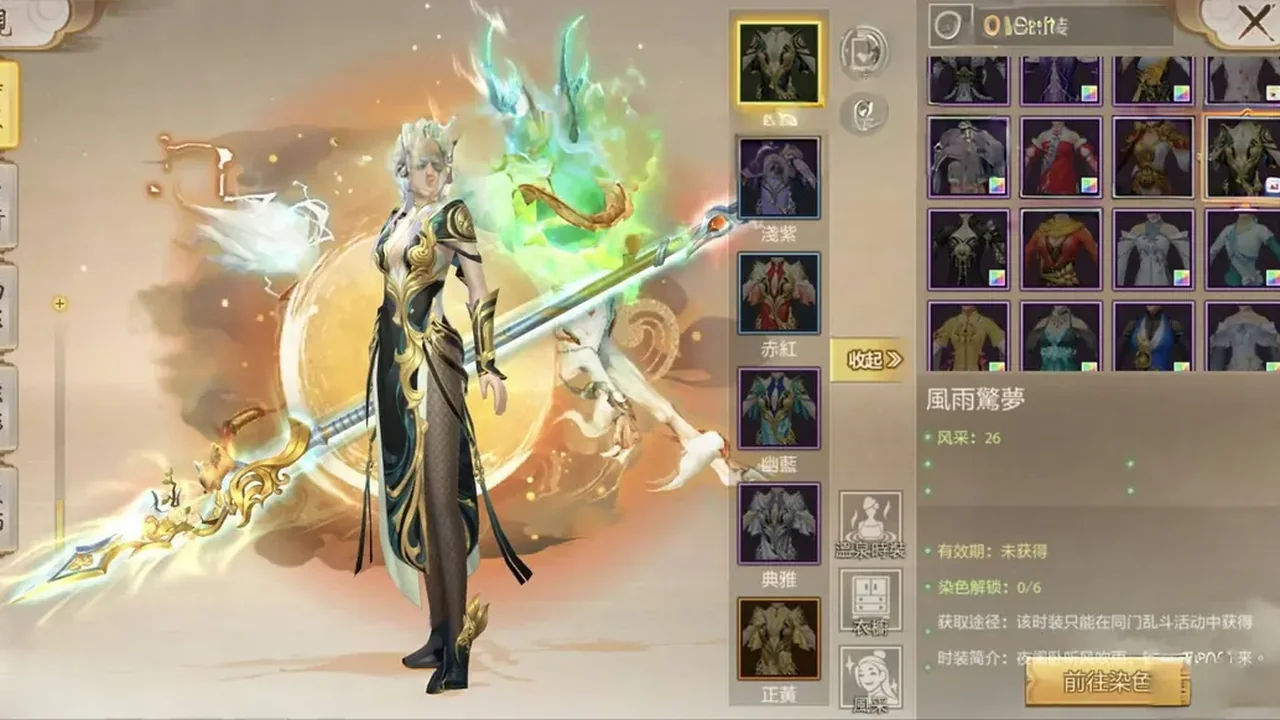
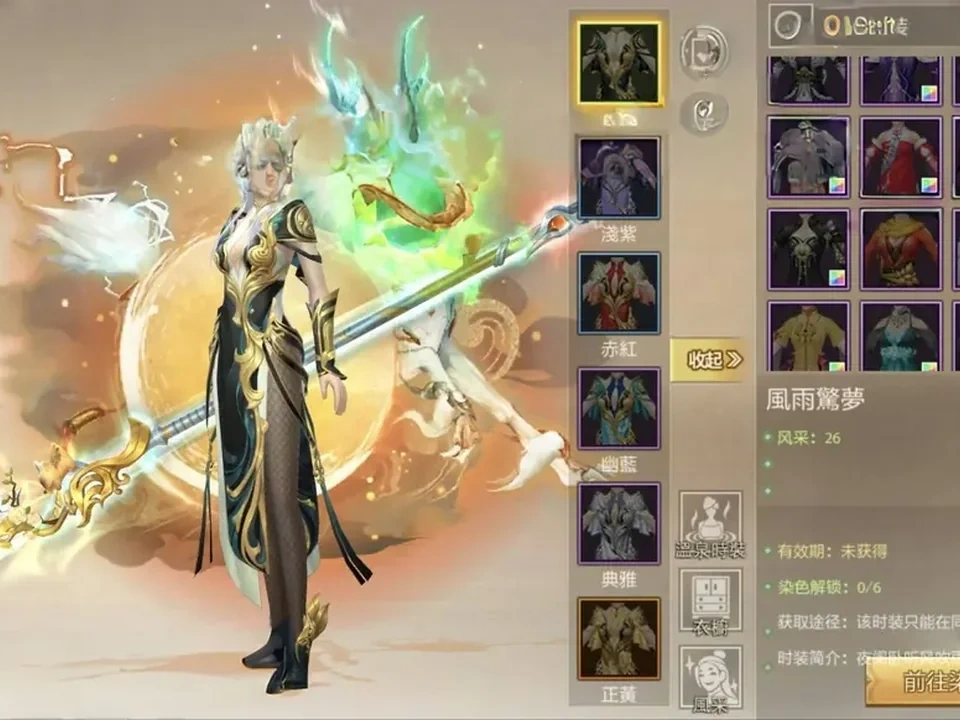
perf(轮播): 23 张图逐张裁成 4:3 原生尺寸，图片与轮播框比例一致
1) 按各自文案位置裁切 960x720（不拉伸、不缩放像素），每张单独定方案

2) 移除 9 处 object-position 内联补偿，浏览器不再二次裁切，满框无留白

3) 导出 WebP q95，单张 76-243KB

4) 版本升至 v20261026120000

diff --git a/index.html b/index.html
@@ -4,7 +4,7 @@
 <meta charset="UTF-8">
 <meta http-equiv="Content-Security-Policy" content="default-src 'self'; script-src 'self'; style-src 'self' 'unsafe-inline' https://miaoda.feishu.cn; img-src 'self' data: blob: https://*.byteimg.com; font-src https://miaoda.feishu.cn; connect-src 'self' https://tlbb.hfynxx.top; frame-ancestors 'none'; form-action 'self'; base-uri 'self';">
 <meta name="referrer" content="strict-origin-when-cross-origin">
-<script src="assets/frame-guard.js?v=v20261025250000"></script>
+<script src="assets/frame-guard.js?v=v20261026120000"></script>
 <meta name="viewport" content="width=device-width, initial-scale=1.0">
 <meta http-equiv="Cache-Control" content="no-cache, no-store, must-revalidate">
 <meta http-equiv="Pragma" content="no-cache">
@@ -55,23 +55,23 @@ header{display:flex;align-items:center;justify-content:space-between;padding:10p
     <div class="zc ct">
       <div class="zc-hd"><b>传奇手游专区</b><em>41 款 · 点图进入</em><a class="enter" href="cq.html">进入传奇 ›</a></div>
       <div class="carousel" data-swipe data-href="cq.html">
-        <div class="slide on"><img src="assets/home-carousel/c_kuangbao_xiyou.webp?v=v20261025250000" alt="狂暴西游"></div><div class="slide"><img data-src="assets/home-carousel/c_feijian_jianghu.webp?v=v20261025250000" alt="飞剑江湖" decoding="async"></div><div class="slide"><img data-src="assets/home-carousel/c_shensu_chuanqi.webp?v=v20261025250000" alt="神速传奇" decoding="async"></div><div class="slide"><img data-src="assets/home-carousel/c_bingxue_guilai.webp?v=v20261025250000" alt="冰雪归来" decoding="async"></div><div class="slide"><img data-src="assets/home-carousel/c_zhanguo_chuanqi.webp?v=v20261025250000" alt="战国传奇" decoding="async"></div><div class="slide"><img data-src="assets/home-carousel/c_liehuo_zhange.webp?v=v20261025250000" alt="烈火战歌" decoding="async"></div><div class="slide"><img data-src="assets/home-carousel/c_shacheng_fengyun.webp?v=v20261025250000" alt="沙城风云" decoding="async"></div>
+        <div class="slide on"><img src="assets/home-carousel/c_kuangbao_xiyou.webp?v=v20261026120000" alt="狂暴西游"></div><div class="slide"><img data-src="assets/home-carousel/c_feijian_jianghu.webp?v=v20261026120000" alt="飞剑江湖" decoding="async"></div><div class="slide"><img data-src="assets/home-carousel/c_shensu_chuanqi.webp?v=v20261026120000" alt="神速传奇" decoding="async"></div><div class="slide"><img data-src="assets/home-carousel/c_bingxue_guilai.webp?v=v20261026120000" alt="冰雪归来" decoding="async"></div><div class="slide"><img data-src="assets/home-carousel/c_zhanguo_chuanqi.webp?v=v20261026120000" alt="战国传奇" decoding="async"></div><div class="slide"><img data-src="assets/home-carousel/c_liehuo_zhange.webp?v=v20261026120000" alt="烈火战歌" decoding="async"></div><div class="slide"><img data-src="assets/home-carousel/c_shacheng_fengyun.webp?v=v20261026120000" alt="沙城风云" decoding="async"></div>
         <div class="dots"><button class="dot on" data-i="0" type="button" aria-label="第1张"></button><button class="dot" data-i="1" type="button" aria-label="第2张"></button><button class="dot" data-i="2" type="button" aria-label="第3张"></button><button class="dot" data-i="3" type="button" aria-label="第4张"></button><button class="dot" data-i="4" type="button" aria-label="第5张"></button><button class="dot" data-i="5" type="button" aria-label="第6张"></button><button class="dot" data-i="6" type="button" aria-label="第7张"></button></div>
       </div>
     </div>
     <div class="zc tl">
-      <div class="zc-hd"><b>天龙手游专区</b><em>17职业国际服 · 点图进入</em><a class="enter" href="tianlong.html?v=v20261025250000">进入天龙 ›</a></div>
-      <div class="carousel" data-swipe data-href="tianlong.html?v=v20261025250000">
-        <div class="slide on"><img style="object-position:20% 50%" src="assets/home-carousel/tl_official_logo_uni.webp?v=v20261025250000" alt="天龙八部手游"></div><div class="slide"><img data-src="assets/home-carousel/tl_taohuadao_uni.webp?v=v20261025250000" alt="天龙游戏实景" decoding="async"></div><div class="slide"><img data-src="assets/home-carousel/tl_tianmingxuanfeng_uni.webp?v=v20261025250000" alt="天龙珍兽天命玄凤" decoding="async"></div><div class="slide"><img data-src="assets/home-carousel/tl_beimingxuanwu_uni.webp?v=v20261025250000" alt="天龙珍兽北溟玄龟" decoding="async"></div><div class="slide"><img data-src="assets/home-carousel/tl_fengyujingmeng_uni.webp?v=v20261025250000" alt="天龙时装风雨惊梦" decoding="async"></div><div class="slide"><img data-src="assets/home-carousel/tl_tayanjinshi_uni.webp?v=v20261025250000" alt="天龙累计登录奖励" decoding="async"></div>        <div class="dots"><button class="dot on" data-i="0" type="button" aria-label="第1张"></button><button class="dot" data-i="1" type="button" aria-label="第2张"></button><button class="dot" data-i="2" type="button" aria-label="第3张"></button><button class="dot" data-i="3" type="button" aria-label="第4张"></button><button class="dot" data-i="4" type="button" aria-label="第5张"></button><button class="dot" data-i="5" type="button" aria-label="第6张"></button></div>
+      <div class="zc-hd"><b>天龙手游专区</b><em>17职业国际服 · 点图进入</em><a class="enter" href="tianlong.html?v=v20261026120000">进入天龙 ›</a></div>
+      <div class="carousel" data-swipe data-href="tianlong.html?v=v20261026120000">
+        <div class="slide on"><img src="assets/home-carousel/tl_official_logo_uni.webp?v=v20261026120000" alt="天龙八部手游"></div><div class="slide"><img data-src="assets/home-carousel/tl_taohuadao_uni.webp?v=v20261026120000" alt="天龙游戏实景" decoding="async"></div><div class="slide"><img data-src="assets/home-carousel/tl_tianmingxuanfeng_uni.webp?v=v20261026120000" alt="天龙珍兽天命玄凤" decoding="async"></div><div class="slide"><img data-src="assets/home-carousel/tl_beimingxuanwu_uni.webp?v=v20261026120000" alt="天龙珍兽北溟玄龟" decoding="async"></div><div class="slide"><img data-src="assets/home-carousel/tl_fengyujingmeng_uni.webp?v=v20261026120000" alt="天龙时装风雨惊梦" decoding="async"></div><div class="slide"><img data-src="assets/home-carousel/tl_tayanjinshi_uni.webp?v=v20261026120000" alt="天龙累计登录奖励" decoding="async"></div>        <div class="dots"><button class="dot on" data-i="0" type="button" aria-label="第1张"></button><button class="dot" data-i="1" type="button" aria-label="第2张"></button><button class="dot" data-i="2" type="button" aria-label="第3张"></button><button class="dot" data-i="3" type="button" aria-label="第4张"></button><button class="dot" data-i="4" type="button" aria-label="第5张"></button><button class="dot" data-i="5" type="button" aria-label="第6张"></button></div>
       </div>
     </div>
   </div>
 
   <p class="foot">游戏专区门户 · 传奇专区 + 魔幻天龙国际服</p>
 </div>
-<script src="assets/carousel.js?v=v20261025250000"></script>
-<script src="assets/rv-check.js?v=v20261025250000"></script>
-<script src="assets/kefu.js?v=v20261025250000"></script>
+<script src="assets/carousel.js?v=v20261026120000"></script>
+<script src="assets/rv-check.js?v=v20261026120000"></script>
+<script src="assets/kefu.js?v=v20261026120000"></script>
 
 </body>
 </html>

diff --git a/tianlong.html b/tianlong.html
@@ -4,7 +4,7 @@
 <meta charset="UTF-8">
 <meta http-equiv="Content-Security-Policy" content="default-src 'self'; script-src 'self'; style-src 'self' 'unsafe-inline' https://miaoda.feishu.cn; img-src 'self' data: blob: https://*.byteimg.com; font-src https://miaoda.feishu.cn; connect-src 'self' https://tlbb.hfynxx.top; frame-ancestors 'none'; form-action 'self'; base-uri 'self';">
 <meta name="referrer" content="strict-origin-when-cross-origin">
-<script src="assets/frame-guard.js?v=v20261025250000"></script>
+<script src="assets/frame-guard.js?v=v20261026120000"></script>
 <meta name="viewport" content="width=device-width, initial-scale=1.0">
 <meta http-equiv="Cache-Control" content="no-store">
 <title>天龙手游专区 · 畅玩版 & 魔幻版</title>
@@ -50,29 +50,29 @@ header{display:flex;align-items:center;justify-content:space-between;padding:8px
   <div class="dual">
     <!-- 畅玩版滚动区(全图帧) -->
     <div class="zc cw-zc">
-      <div class="zc-hd"><b>畅玩版</b><em>经典天龙八部</em><a class="enter" href="tl-changwan.html?v=v20261025250000">进入畅玩版 ›</a></div>
+      <div class="zc-hd"><b>畅玩版</b><em>经典天龙八部</em><a class="enter" href="tl-changwan.html?v=v20261026120000">进入畅玩版 ›</a></div>
       <div class="carousel cw-car" data-href="tl-changwan.html">
-        <div class="slide on"><img style="object-position:20% 50%" src="assets/home-carousel/cw_17profession_uni.webp?v=v20261025250000" alt="畅玩天龙17职业"></div><div class="slide"><img src="assets/home-carousel/cw_gonglue_uni.webp?v=v20261025250000" alt="畅玩天龙游戏攻略" decoding="async"></div><div class="slide"><img style="object-position:20% 50%" src="assets/home-carousel/cw_xinwanfa_uni.webp?v=v20261025250000" alt="畅玩天龙更新全新玩法" decoding="async"></div><div class="slide"><img style="object-position:80% 50%" src="assets/home-carousel/cw_emei_uni.webp?v=v20261025250000" alt="畅玩天龙峨眉门派" decoding="async"></div><div class="slide"><img style="object-position:55% 50%" src="assets/home-carousel/cw_shuangjie_uni.webp?v=v20261025250000" alt="畅玩天龙双节同庆" decoding="async"></div><div class="dots"><button class="dot on" data-i="0" type="button" aria-label="第1张"></button><button class="dot" data-i="1" type="button" aria-label="第2张"></button><button class="dot" data-i="2" type="button" aria-label="第3张"></button><button class="dot" data-i="3" type="button" aria-label="第4张"></button><button class="dot" data-i="4" type="button" aria-label="第5张"></button></div>
+        <div class="slide on"><img src="assets/home-carousel/cw_17profession_uni.webp?v=v20261026120000" alt="畅玩天龙17职业"></div><div class="slide"><img src="assets/home-carousel/cw_gonglue_uni.webp?v=v20261026120000" alt="畅玩天龙游戏攻略" decoding="async"></div><div class="slide"><img src="assets/home-carousel/cw_xinwanfa_uni.webp?v=v20261026120000" alt="畅玩天龙更新全新玩法" decoding="async"></div><div class="slide"><img src="assets/home-carousel/cw_emei_uni.webp?v=v20261026120000" alt="畅玩天龙峨眉门派" decoding="async"></div><div class="slide"><img src="assets/home-carousel/cw_shuangjie_uni.webp?v=v20261026120000" alt="畅玩天龙双节同庆" decoding="async"></div><div class="dots"><button class="dot on" data-i="0" type="button" aria-label="第1张"></button><button class="dot" data-i="1" type="button" aria-label="第2张"></button><button class="dot" data-i="2" type="button" aria-label="第3张"></button><button class="dot" data-i="3" type="button" aria-label="第4张"></button><button class="dot" data-i="4" type="button" aria-label="第5张"></button></div>
       </div>
     </div>
     <!-- 魔幻版滚动区 -->
     <div class="zc ml">
-      <div class="zc-hd"><b>魔幻版</b><em>17职业国际服</em><a class="enter" href="tl-mohuan.html?ver=v20261025250000">进入魔幻版 ›</a></div>
-      <div class="carousel ml-car" data-href="tl-mohuan.html?ver=v20261025250000">
-        <div class="slide on"><img style="object-position:0% 50%" src="assets/home-carousel/ml_001zhe.webp?v=v20261025250000" alt="0.01折江湖钜惠令"></div>
-        <div class="slide"><img style="object-position:40% 50%" src="assets/home-carousel/ml_gongce.webp?v=v20261025250000" alt="天龙公测江湖充值帖" decoding="async"></div>
-        <div class="slide"><img style="object-position:60% 50%" src="assets/home-carousel/ml_chonglou.webp?v=v20261025250000" alt="七日寻重楼连充献礼" decoding="async"></div>
-        <div class="slide"><img src="assets/home-carousel/ml_free.webp?v=v20261025250000" alt="免费福利馈赠" decoding="async"></div>
-        <div class="slide"><img style="object-position:60% 50%" src="assets/home-carousel/ml_libao.webp?v=v20261025250000" alt="魔幻天龙福利礼包" decoding="async"></div>
+      <div class="zc-hd"><b>魔幻版</b><em>17职业国际服</em><a class="enter" href="tl-mohuan.html?ver=v20261026120000">进入魔幻版 ›</a></div>
+      <div class="carousel ml-car" data-href="tl-mohuan.html?ver=v20261026120000">
+        <div class="slide on"><img src="assets/home-carousel/ml_001zhe.webp?v=v20261026120000" alt="0.01折江湖钜惠令"></div>
+        <div class="slide"><img src="assets/home-carousel/ml_gongce.webp?v=v20261026120000" alt="天龙公测江湖充值帖" decoding="async"></div>
+        <div class="slide"><img src="assets/home-carousel/ml_chonglou.webp?v=v20261026120000" alt="七日寻重楼连充献礼" decoding="async"></div>
+        <div class="slide"><img src="assets/home-carousel/ml_free.webp?v=v20261026120000" alt="免费福利馈赠" decoding="async"></div>
+        <div class="slide"><img src="assets/home-carousel/ml_libao.webp?v=v20261026120000" alt="魔幻天龙福利礼包" decoding="async"></div>
         <div class="dots"><button class="dot on" data-i="0" type="button" aria-label="第1张"></button><button class="dot" data-i="1" type="button" aria-label="第2张"></button><button class="dot" data-i="2" type="button" aria-label="第3张"></button><button class="dot" data-i="3" type="button" aria-label="第4张"></button><button class="dot" data-i="4" type="button" aria-label="第5张"></button></div>
       </div></div>
     </div>
 
   <p class="foot">天龙手游专区 · 畅玩版(经典天龙八部) + 魔幻版(17职业国际服)</p>
 </div>
-<script src="assets/carousel.js?v=v20261025250000"></script>
-<script src="assets/rv-check.js?v=v20261025250000"></script>
-<script src="assets/kefu.js?v=v20261025250000"></script>
+<script src="assets/carousel.js?v=v20261026120000"></script>
+<script src="assets/rv-check.js?v=v20261026120000"></script>
+<script src="assets/kefu.js?v=v20261026120000"></script>
 
 </body>
 </html>
